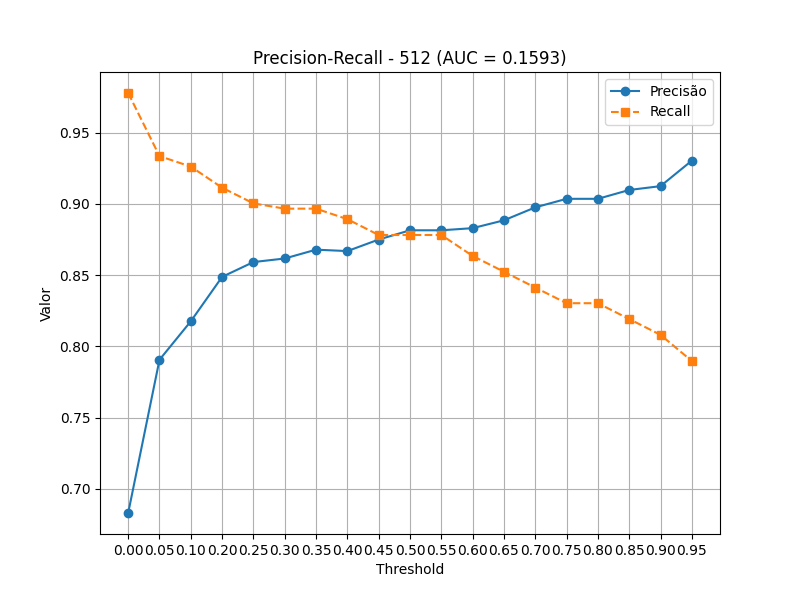
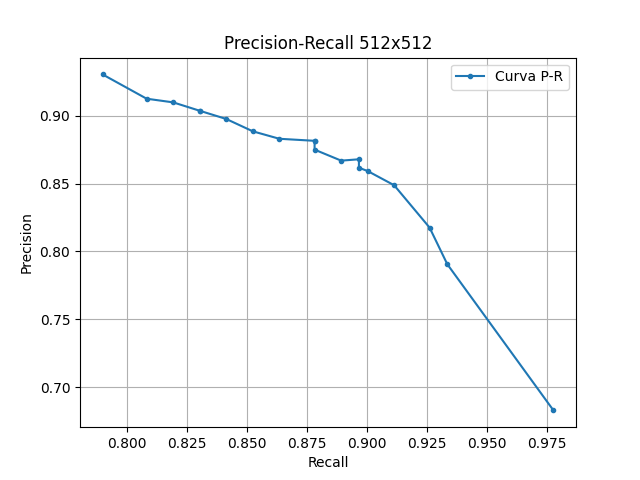
Concluindo

diff --git a/Trabalhos/Trabalho_1/plot_e_AP.py b/Trabalhos/Trabalho_1/plot_e_AP.py
@@ -1,0 +1,72 @@
+import sys #argv
+import pandas as pd
+import matplotlib.pyplot as plt
+from sklearn.metrics import precision_recall_curve, average_precision_score
+
+# calcula com base na formula
+def calcular_ap(precision, recall):
+    
+    # ordena recall e precision em ordem crescente de recall
+    indices_ordenados = recall.argsort()
+    recall_ordenado = recall.iloc[indices_ordenados]
+    precision_ordenado = precision.iloc[indices_ordenados]
+
+    # inicializa ap_score pra acumular a soma
+    ap_score = 0.0
+
+    for i in range(1, len(recall_ordenado)):
+        # calcula a diferença de recall
+        dif_recall = recall_ordenado.iloc[i] - recall_ordenado.iloc[i-1]
+        # acumula na ap_score o produto de delta_recall e precisão no ponto i
+        ap_score += dif_recall * precision_ordenado.iloc[i]
+
+    # arredondando casas decimais       
+    ap_score_arredondado = round(ap_score, 4)
+    return ap_score_arredondado
+
+def plot_precision_recall(csv_file):
+    # carregar os dados, pulando a primeira linha (cabeçalho)
+    df = pd.read_csv(csv_file, names=["Tamanho", "Threshold", "TP", "FP", "FN", "Precisão", "Recall", "F1-Score"])
+
+    # converter as colunas 'Precisão' e 'Recall' para numérico, caso necessário
+    df['Precisão'] = pd.to_numeric(df['Precisão'], errors='coerce')
+    df['Recall'] = pd.to_numeric(df['Recall'], errors='coerce')
+
+    # exclui linhas inválidas se houver
+    df = df.dropna()
+
+    # extrair as colunas necessárias
+    tamanho = df["Tamanho"].iloc[0]
+    precision = df["Precisão"]
+    recall = df["Recall"]
+
+    # plota a curva Precision-Recall
+    plt.figure()
+    plt.plot(recall, precision, marker='.', label='Curva P-R')
+    plt.xlabel('Recall')
+    plt.ylabel('Precision')
+    plt.title(f'Precision-Recall {tamanho}x{tamanho}')
+    plt.legend()
+    plt.grid()
+
+    # salva arquivo com o gráfico
+    output_file = f"precision_recall_{tamanho}.png"
+    plt.savefig(output_file)
+
+    # imprime os dados do arquivo .csv 
+    print("\n" + "-" * 40 + f" Dados {tamanho}x{tamanho} " + "-" * 40)
+    print(df.to_string(index=False, header=True))
+
+    # calcula ap_score
+    ap_score = calcular_ap (precision, recall)
+    
+    return tamanho, ap_score
+
+if __name__ == "__main__":
+    if len(sys.argv) != 2:
+        print("Uso: python script.py <arquivo_csv>")
+        sys.exit(1)
+    csv_file = sys.argv[1]
+    tamanho, ap_score = plot_precision_recall(csv_file)
+    tamanho_formatado = f"{tamanho}x{tamanho}"
+    print(f"Average Precision (AP) {tamanho_formatado}: {ap_score}")

diff --git a/Trabalhos/Trabalho_1/Relatorio.md b/Trabalhos/Trabalho_1/Relatorio.md
@@ -1,0 +1,33 @@
+# Relatório de Análise de Tamanho de Imagem e Threshold
+
+## Critérios de Avaliação
+
+Vou me basear em três métricas para avaliar o melhor tamanho de imagem e threshold:
+
+1. **F1-score:** Avalia o equilíbrio entre precisão e recall. Um bom modelo deve evitar extremos – alta precisão com recall baixo pode perder casos importantes, enquanto alto recall com precisão baixa gera muitos falsos positivos. O melhor threshold é aquele que maximiza essa métrica (valores mais próximos de 1).
+
+2. **Curva Precision-Recall:** Quanto mais alta e estável, melhor o desempenho. Uma curva elevada indica que o modelo mantém boa precisão mesmo para altos valores de recall, enquanto uma curva instável sugere que a precisão cai rapidamente ao recuperar mais exemplos.
+
+3. **Average Precision (AP):** Mede a área sob a curva PR; valores maiores indicam melhor desempenho geral.
+
+O tamanho de imagem ideal tem a maior **AP** e uma curva **PR** mais estável. O melhor threshold é aquele com o maior **F1-score** dentro desse tamanho.
+
+## Resultados da Análise
+
+- **Imagem 800x800:** Apresentou os maiores valores de **F1-score**, indicando um melhor equilíbrio entre precisão e recall para um threshold fixo. A imagem 800x800 mantém valores altos de **F1-score** por mais tempo antes de começar a decrescer, demonstrando maior estabilidade em diferentes thresholds. Ela apresenta a melhor curva **Precision-Recall**, o que significa que o modelo tem melhor desempenho ao longo de um intervalo de thresholds.
+
+- **Imagem 500x500:** Embora tenha a maior **AP** (0.1562), a imagem 500x500 apresenta uma curva **Precision-Recall** mais instável, o que pode indicar uma queda na precisão ao tentar recuperar mais exemplos. Ela perde para a imagem 800x800 em termos de estabilidade.
+
+- **Imagem 608x608:** Decai rapidamente na curva **Precision-Recall**, tornando-se a opção menos favorável das três, com os menores **F1-scores**. Isso sugere que, embora ela tenha algum desempenho inicial razoável, não mantém a precisão em thresholds mais altos.
+
+## Conclusão
+
+Portanto, a imagem **800x800** é a melhor escolha, pois oferece o maior **F1-score** e uma curva **PR** mais estável, garantindo um desempenho mais consistente.
+
+### Melhor Threshold para 800x800
+
+O melhor **threshold** para a imagem de tamanho **800x800** é **0.75**, pois apresenta o maior **F1-score** (0.8860), indicando um ótimo equilíbrio entre precisão (0.8977) e recall (0.8745). Esse valor garante que quase 90% das previsões positivas estão corretas, ao mesmo tempo em que mantém uma boa taxa de detecção dos verdadeiros positivos. Acima desse threshold, a precisão continua aumentando, mas o recall cai significativamente, reduzindo o **F1-score**. Por outro lado, valores menores favorecem o recall, mas aumentam os falsos positivos.
+
+### Conclusão Final
+
+O melhor tamanho de imagem e threshold é **800x800** e **0.75**, respectivamente.

diff --git a/Trabalhos/Trabalho_1/README.md b/Trabalhos/Trabalho_1/README.md
@@ -1,0 +1,59 @@
+# **README: Análise de Métricas de Modelos**
+
+## **Como Utilizar**
+
+### **Passo 1: Preparação do Ambiente**
+
+Vamos precisar de três bibliotecas instaladas:
+
+- **pandas**
+- **matplotlib**
+- **scikit-learn**
+
+O script irá (ou tentará) verificar automaticamente se essas bibliotecas estão instaladas e, se necessário, as instalará (em modo --user).
+
+### **Passo 2: Estrutura de Arquivos**
+
+O script espera que você tenha um arquivo comprimido `Modelos.tar` que contenha arquivos de texto com as métricas dos modelos no mesmo diretório.
+
+1. **Modelos.tar**: Arquivo comprimido contendo os arquivos de métricas (ex: `512.txt`, `608.txt`, `800.txt`).
+2. O script criará um diretório chamado **Modelos** para descompactar os arquivos, mas não se preocupa que no fim de tudo ele exclui.
+
+### **Passo 3: Tornando o Script Executável**
+
+Para executar o script, você precisa primeiro garantir que ele seja executável. No terminal, navegue até o diretório onde o script está localizado e execute o seguinte comando:
+
+```bash
+chmod +x script.sh
+```
+
+Isso dará permissão de execução ao script.
+
+### **Passo 4: Execução do Script**
+
+Após garantir que o script é executável, basta rodá-lo com o seguinte comando:
+
+```bash
+./seu_script.sh
+```
+## **O que Acontece ao Executar**
+
+### **Extração e Cálculo das Métricas:**
+
+O script descompacta os arquivos Modelos.tar e calcula métricas como precisão, recall e F1-score para cada conjunto de tamanho de imagem (512, 608, 800). As métricas são salvas em três arquivos CSV: metricas_512.csv, metricas_608.csv e metricas_800.csv.
+
+### **Instalação das Dependências:**
+
+O script garante que todas as dependências Python (pandas, matplotlib, scikit-learn) sejam instaladas.
+
+### **Execução do Código Python para Gráficos e Cálculo do AP:**
+
+O script executa o arquivo plot_e_AP.py que gera png's com os gráficos de Precision-Recall para cada conjunto de métricas e calcula o valor de Average Precision (AP). Nesse momento você poderá ver no terminal todas as métricas calculadas.
+
+### **Exibição dos Gráficos:**
+
+Os gráficos gerados serão exibidos automaticamente na sua máquina.
+
+### **Limpeza:**
+
+O script apaga os arquivos CSV gerados e o diretório Modelos após a execução, mantendo seu ambiente limpo.
